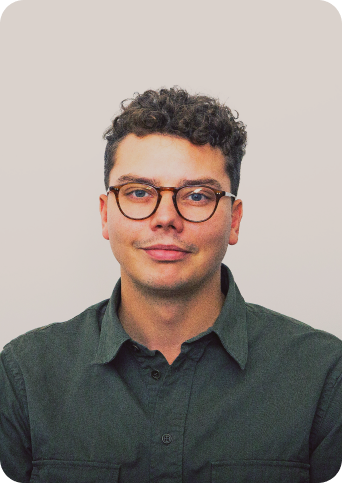
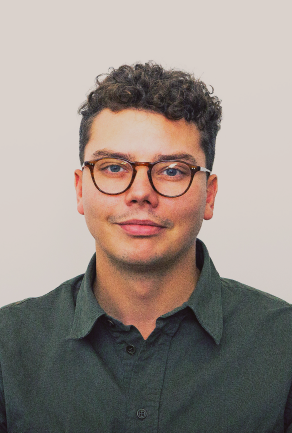
Crop the rounded corners out of the portrait
carl.png had them cut out of its alpha channel, so on the site they let the
paper through — invisible on white, a rounded notch in each corner once the
page went dark. Cropped 25px off all four edges, where the curve ends, so the
photo is a plain rectangle in both schemes.

342x483 to 292x433, and the img's width/height follow it — a stale pair would
reserve the wrong aspect ratio and shift the intro as the image loads.

Claude-Session: https://claude.ai/code/session_01TTN7p9yvs1uBV7gVXB89Yx

diff --git a/index.html b/index.html
@@ -52,7 +52,7 @@
 	</svg>
 
 	<header class="intro">
-		<img class="portrait" src="./img/carl.png" alt="Carl Ejlers" width="342" height="483">
+		<img class="portrait" src="./img/carl.png" alt="Carl Ejlers" width="292" height="433">
 		<div class="intro__text">
 			<h1>Carl Ejlers</h1>
 			<p class="display">Ten years designing digital products.</p>
